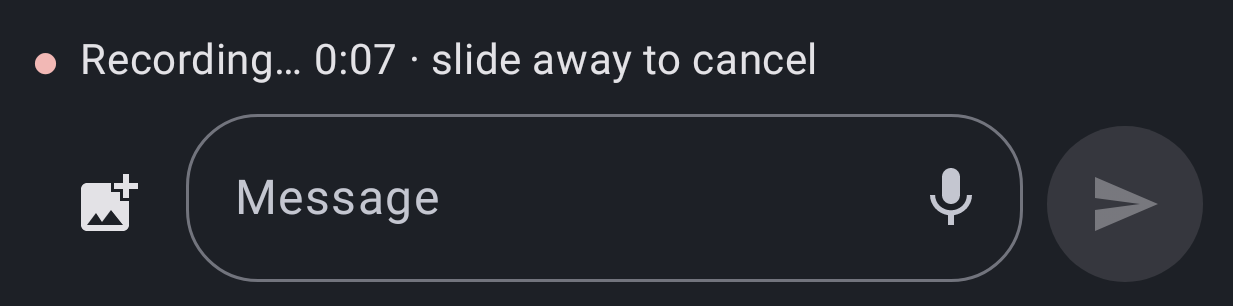
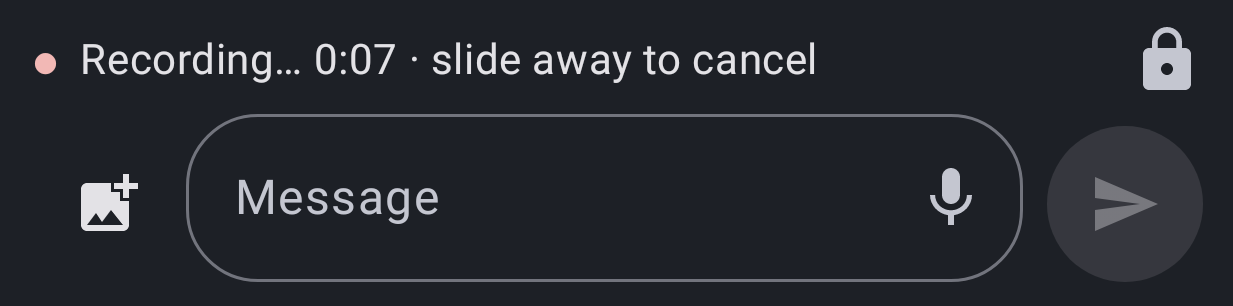
Voice notes: slide up to lock and record hands-free (AII-384)

Changed region(s): [[0.9246, 0.0882, 0.9862, 0.2941]]

diff --git a/app/src/main/java/com/smizflark/aigile/messenger/ui/VoiceRecord.kt b/app/src/main/java/com/smizflark/aigile/messenger/ui/VoiceRecord.kt
@@ -14,6 +14,12 @@ import androidx.compose.foundation.gestures.waitForUpOrCancellation
 import androidx.compose.foundation.layout.Row
 import androidx.compose.foundation.layout.fillMaxWidth
 import androidx.compose.foundation.layout.padding
+import androidx.compose.material.icons.Icons
+import androidx.compose.material.icons.automirrored.filled.Send
+import androidx.compose.material.icons.filled.Delete
+import androidx.compose.material.icons.filled.Lock
+import androidx.compose.material3.Icon
+import androidx.compose.material3.IconButton
 import androidx.compose.material3.MaterialTheme
 import androidx.compose.material3.Text
 import androidx.compose.runtime.Composable
@@ -35,6 +41,7 @@ import androidx.compose.ui.unit.dp
 import androidx.core.content.ContextCompat
 import com.smizflark.aigile.messenger.R
 import com.smizflark.aigile.messenger.data.Voice
+import com.smizflark.aigile.messenger.data.VoiceLock
 import kotlinx.coroutines.CoroutineScope
 import kotlinx.coroutines.Job
 import kotlinx.coroutines.delay
@@ -53,6 +60,14 @@ class VoiceController internal constructor(
     var elapsed by mutableLongStateOf(0L); private set
     /** The finger has slid off the button: letting go now drops the note. */
     var cancelling by mutableStateOf(false)
+    /** AII-384: slid up past the lock; letting go no longer ends the note. */
+    var state by mutableStateOf(VoiceLock.State.HOLD); private set
+    val locked get() = recording && state == VoiceLock.State.LOCKED
+    fun slide(upDp: Float) { state = VoiceLock.onMove(state, upDp) }
+    /** The finger came up: ends the note unless it is locked. */
+    fun release() { if (VoiceLock.onRelease(state, cancelling) != VoiceLock.State.LOCKED) end(cancel = cancelling) }
+    fun sendLocked() { if (locked) end(cancel = false) }
+    fun deleteLocked() { if (locked) end(cancel = true) }
     private var rec: MediaRecorder? = null
     private var file: File? = null
     private var startedAt = 0L
@@ -76,7 +91,7 @@ class VoiceController internal constructor(
             runCatching { r.release() }; out.delete()
             Toast.makeText(ctx, R.string.voice_failed, Toast.LENGTH_SHORT).show(); return
         }
-        rec = r; file = out; startedAt = System.currentTimeMillis(); elapsed = 0; cancelling = false; recording = true
+        rec = r; file = out; startedAt = System.currentTimeMillis(); elapsed = 0; cancelling = false; state = VoiceLock.State.HOLD; recording = true
         ticker = scope.launch {
             while (recording) {
                 delay(100)
@@ -91,7 +106,7 @@ class VoiceController internal constructor(
         val r = rec ?: return
         val out = file
         val ms = System.currentTimeMillis() - startedAt
-        rec = null; file = null; recording = false; ticker?.cancel()
+        rec = null; file = null; recording = false; state = VoiceLock.State.HOLD; ticker?.cancel()
         val stopped = runCatching { r.stop() }.isSuccess
         runCatching { r.release() }
         if (cancel || !stopped || Voice.tooShort(ms) || out == null) {
@@ -104,7 +119,7 @@ class VoiceController internal constructor(
 
     internal companion object {
         /** For screenshots: a recording line with no recorder behind it. */
-        fun preview(ctx: Context, scope: CoroutineScope, ms: Long) = VoiceController(ctx, scope, {}, {}).apply { recording = true; elapsed = ms }
+        fun preview(ctx: Context, scope: CoroutineScope, ms: Long, locked: Boolean = false) = VoiceController(ctx, scope, {}, {}).apply { recording = true; elapsed = ms; if (locked) slide(VoiceLock.LOCK_DP) }
     }
 }
 
@@ -127,6 +142,7 @@ internal fun rememberVoiceController(onNote: (String) -> Unit): VoiceController 
  */
 internal fun Modifier.holdToRecord(voice: VoiceController, onTap: () -> Unit): Modifier = pointerInput(voice) {
     val margin = 40.dp.toPx()
+    val lockPx = VoiceLock.LOCK_DP.dp.toPx()
     awaitEachGesture {
         awaitFirstDown()
         var released = false
@@ -137,20 +153,33 @@ internal fun Modifier.holdToRecord(voice: VoiceController, onTap: () -> Unit): M
         while (true) {
             val c = awaitPointerEvent().changes.first()
             c.consume()
-            if (!c.pressed) { voice.end(cancel = voice.cancelling); return@awaitEachGesture }
+            if (!c.pressed) { voice.release(); return@awaitEachGesture }
             val p = c.position
-            voice.cancelling = p.x < -margin || p.y < -margin || p.x > size.width + margin || p.y > size.height + margin
+            voice.slide(-p.y / lockPx * VoiceLock.LOCK_DP)   // up is negative y
+            voice.cancelling = !voice.locked && (p.x < -margin || p.x > size.width + margin || p.y > size.height + margin)
         }
     }
 }
 
-/** "Recording… 0:07 · slide away to cancel" above the message box while the mic is held. */
+/** "Recording… 0:07 · slide away to cancel" above the message box while the mic is held; locked: timer, Delete and Send. */
 @Composable
 internal fun RecordingLine(voice: VoiceController) {
     val cs = MaterialTheme.colorScheme
     Row(Modifier.fillMaxWidth().padding(bottom = 6.dp).testTag("recording"), verticalAlignment = Alignment.CenterVertically) {
-        Text("●", color = cs.error, modifier = Modifier.padding(end = 6.dp))
-        Text(stringResource(R.string.voice_recording, Voice.label(voice.elapsed)), style = MaterialTheme.typography.bodyMedium,
-            color = if (voice.cancelling) cs.error else cs.onSurface)
+        if (voice.locked) {
+            IconButton(onClick = { voice.deleteLocked() }, modifier = Modifier.testTag("voice-delete")) {
+                Icon(Icons.Default.Delete, stringResource(R.string.voice_delete), tint = cs.error)
+            }
+            Text("●", color = cs.error, modifier = Modifier.padding(end = 6.dp))
+            Text(Voice.label(voice.elapsed), style = MaterialTheme.typography.bodyMedium, color = cs.onSurface, modifier = Modifier.weight(1f))
+            IconButton(onClick = { voice.sendLocked() }, modifier = Modifier.testTag("voice-send")) {
+                Icon(Icons.AutoMirrored.Filled.Send, stringResource(R.string.voice_send), tint = cs.primary)
+            }
+        } else {
+            Text("●", color = cs.error, modifier = Modifier.padding(end = 6.dp))
+            Text(stringResource(R.string.voice_recording, Voice.label(voice.elapsed)), style = MaterialTheme.typography.bodyMedium,
+                color = if (voice.cancelling) cs.error else cs.onSurface, modifier = Modifier.weight(1f))
+            Icon(Icons.Default.Lock, stringResource(R.string.voice_lock_hint), Modifier.testTag("voice-lock-hint"), tint = cs.onSurfaceVariant)
+        }
     }
 }

diff --git a/app/src/test/java/com/smizflark/aigile/messenger/VoiceLockTest.kt b/app/src/test/java/com/smizflark/aigile/messenger/VoiceLockTest.kt
@@ -1,0 +1,32 @@
+package com.smizflark.aigile.messenger
+
+import com.smizflark.aigile.messenger.data.VoiceLock
+import com.smizflark.aigile.messenger.data.VoiceLock.State
+import org.junit.Assert.assertEquals
+import org.junit.Assert.assertFalse
+import org.junit.Assert.assertTrue
+import org.junit.Test
+
+/** AII-384: slide up to lock a voice note. */
+class VoiceLockTest {
+    @Test fun lockNeedsAboutEightyDp() {
+        assertFalse(VoiceLock.reached(79f)); assertTrue(VoiceLock.reached(80f)); assertFalse(VoiceLock.reached(-100f))
+    }
+    @Test fun slidingUpLocksOnlyFromHold() {
+        assertEquals(State.HOLD, VoiceLock.onMove(State.HOLD, 40f))
+        assertEquals(State.LOCKED, VoiceLock.onMove(State.HOLD, 90f))
+        assertEquals(State.LOCKED, VoiceLock.onMove(State.LOCKED, 0f))
+        assertEquals(State.SENT, VoiceLock.onMove(State.SENT, 90f))
+    }
+    @Test fun letGoSendsUnlockedAndKeepsLocked() {
+        assertEquals(State.SENT, VoiceLock.onRelease(State.HOLD, false))
+        assertEquals(State.DELETED, VoiceLock.onRelease(State.HOLD, true))
+        assertEquals(State.LOCKED, VoiceLock.onRelease(State.LOCKED, false))
+    }
+    @Test fun buttonsActOnlyWhenLocked() {
+        assertEquals(State.SENT, VoiceLock.onSend(State.LOCKED))
+        assertEquals(State.DELETED, VoiceLock.onDelete(State.LOCKED))
+        assertEquals(State.HOLD, VoiceLock.onSend(State.HOLD))
+        assertEquals(State.HOLD, VoiceLock.onDelete(State.HOLD))
+    }
+}

diff --git a/app/src/main/java/com/smizflark/aigile/messenger/data/VoiceLock.kt b/app/src/main/java/com/smizflark/aigile/messenger/data/VoiceLock.kt
@@ -1,0 +1,24 @@
+package com.smizflark.aigile.messenger.data
+
+/** Slide up to lock a voice note (AII-384): the plain rules, apart from the gesture and the recorder. */
+object VoiceLock {
+    enum class State { HOLD, LOCKED, SENT, DELETED }
+
+    /** How far up (dp) the finger must slide to lock. */
+    const val LOCK_DP = 80f
+
+    /** [upDp] is how far above where the press began the finger is (positive = up). */
+    fun reached(upDp: Float) = upDp >= LOCK_DP
+
+    /** Finger moved: HOLD locks once it is far enough up; anything else stays as it is. */
+    fun onMove(s: State, upDp: Float) = if (s == State.HOLD && reached(upDp)) State.LOCKED else s
+
+    /** Finger came up: a held note is sent (or dropped when cancelling); a locked one keeps going. */
+    fun onRelease(s: State, cancelling: Boolean) = if (s != State.HOLD) s else if (cancelling) State.DELETED else State.SENT
+
+    /** The Send button (only meaningful when locked). */
+    fun onSend(s: State) = if (s == State.LOCKED) State.SENT else s
+
+    /** The Delete button (only meaningful when locked). */
+    fun onDelete(s: State) = if (s == State.LOCKED) State.DELETED else s
+}

diff --git a/app/src/test/java/com/smizflark/aigile/messenger/screens/FriendShotTest.kt b/app/src/test/java/com/smizflark/aigile/messenger/screens/FriendShotTest.kt
@@ -97,4 +97,13 @@ class FriendShotTest : ShotBase() {
         }
         rule.onNodeWithTag("recording").assertIsDisplayed()
     }
+
+    @Test fun recordingLockedDark() {
+        shot("chat_friend_recording_locked", true) {
+            val ctx = androidx.compose.ui.platform.LocalContext.current
+            val voice = com.smizflark.aigile.messenger.ui.VoiceController.preview(ctx, kotlinx.coroutines.MainScope(), 7_000, locked = true)
+            com.smizflark.aigile.messenger.ui.Composer(davy(), "", {}, emptyList(), null, {}, voice = voice) {}
+        }
+        rule.onNodeWithTag("voice-send").assertIsDisplayed()
+    }
 }

diff --git a/docs/CODEMAP.md b/docs/CODEMAP.md
@@ -51,7 +51,7 @@ Kotlin under `app/src/main/java/com/smizflark/aigile/messenger/` (paths below ar
 - data/DmCrypto.kt: end-to-end sealing for direct messages (P-256 ECDH, AES-GCM, safety number); see docs/DM.md (AII-325).
 - Reactions in friend chats (AII-326): FriendMsg.reacts to Bubble.reacts chips (Mapper.chips); Source.react toggles; quick emoji row in HoldMenu, chips in ui/ChatBubble.kt.
 - Friend DMs (AII-324) use the board's friend DMs: Source edit / delete / typing / setChecked; reply goes by id (Pending.reply, Held.reply); Edit and Delete dialogs in ui/BubbleMenu.kt; safety words and We checked it in ui/ChatDetails.kt; "typing…" polled every 3 s in ui/ChatScreen.kt.
-- Voice notes in friend chats (AII-331): data/Voice.kt (length label, too-short rule, audio check, file names); hold the mic in ui/ChatComposer.kt to record (ui/VoiceRecord.kt, MediaRecorder, RECORD_AUDIO), ui/VoicePlayer.kt plays them in the bubble (one at a time; speed chip 1x/1.5x/2x, AII-378, kept in Store.voiceSpeed, rules in Voice.nextSpeed); ui/ChatFriend.kt holds the other friend-DM helpers.
+- Voice notes in friend chats (AII-331): data/Voice.kt (length label, too-short rule, audio check, file names); hold the mic in ui/ChatComposer.kt to record, slide up ~80dp to lock and record hands-free with Delete/Send (AII-384, rules in data/VoiceLock.kt) (ui/VoiceRecord.kt, MediaRecorder, RECORD_AUDIO), ui/VoicePlayer.kt plays them in the bubble (one at a time; speed chip 1x/1.5x/2x, AII-378, kept in Store.voiceSpeed, rules in Voice.nextSpeed); ui/ChatFriend.kt holds the other friend-DM helpers.
 - data/Search.kt: search results (chats and messages); Pictures / Links / Files (AII-267, `files`, non-picture files as in ChatInfo.isFile; AII-270 snippet = "📎 name" via `fileNames`) / Starred / Last 7 days (AII-258, `last7`) (AII-246, `starred` = the stars) filters list matching messages newest first (AII-192); snippets show markdown as read and carry the found-word ranges to bold (AII-195).
 - data/Share.kt: text shared in from other apps. Pictures shared in (AII-338): MainActivity sharedImages / sharedPics, New message shows them (PickedPictures) and sends through the outbox.
 - data/Source.kt: chat source, the real board or the demo.
